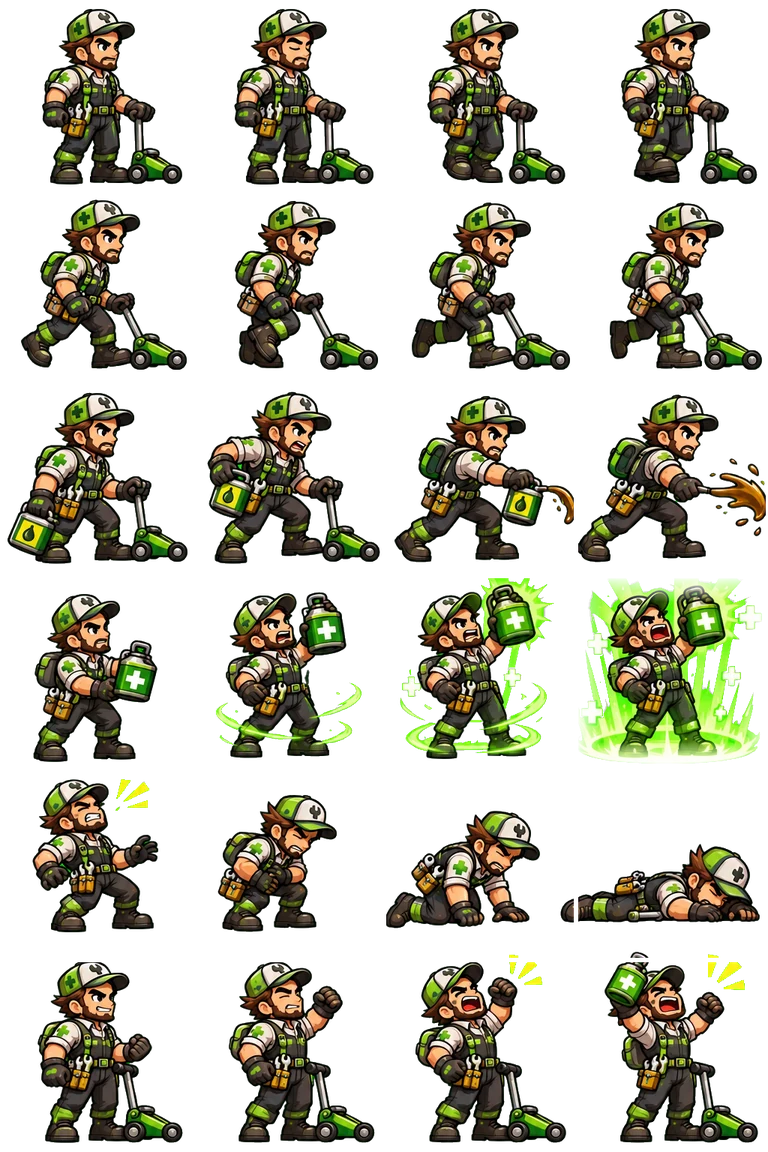
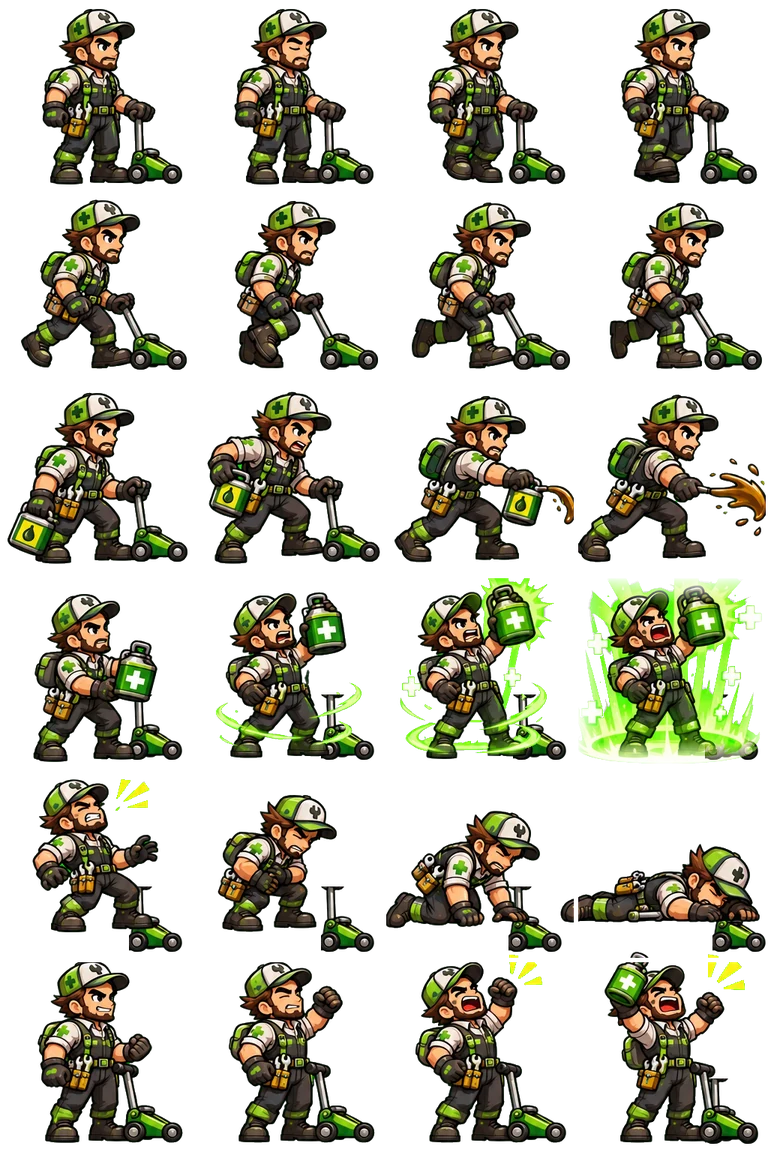
v16-9: Leo Lift keeps his trolley in skill/hurt/KO frames
Claude-Session: https://claude.ai/code/session_01CndPraoc77JDh2NhfP6Kky

diff --git a/sw.js b/sw.js
@@ -1,5 +1,5 @@
 // Torque Empire service worker – the game works offline after the first start and loads fast.
-const V='te-v16-8';
+const V='te-v16-9';
 const FILES=["./battle.js", "./icons/icon-192.png", "./icons/icon-512.png", "./icons/icon-maskable-512.png", "./img/b_arm.webp", "./img/b_arrivals.webp", "./img/b_arrivals0.webp", "./img/b_collection.webp", "./img/b_office.webp", "./img/b_office0.webp", "./img/b_security.webp", "./img/b_security2.webp", "./img/b_security3.webp", "./img/b_security4.webp", "./img/b_yard.webp", "./img/b_ysign.webp", "./img/dq.webp", "./img/fr0.webp", "./img/fr1.webp", "./img/fr2.webp", "./img/fr3.webp", "./img/fr4.webp", "./img/fr5.webp", "./img/fusion.webp", "./img/g_elec2.webp", "./img/g_elec3.webp", "./img/g_elec4.webp", "./img/g_engine2.webp", "./img/g_engine3.webp", "./img/g_engine4.webp", "./img/g_inspect2.webp", "./img/g_inspect3.webp", "./img/g_inspect4.webp", "./img/g_paint2.webp", "./img/g_paint3.webp", "./img/g_paint4.webp", "./img/g_tuning2.webp", "./img/g_tuning3.webp", "./img/g_tuning4.webp", "./img/garage.webp", "./img/gticket.webp", "./img/hud.webp", "./img/hero/m0_0.webp", "./img/hero/m0_0s.webp", "./img/hero/m0_1.webp", "./img/hero/m0_1s.webp", "./img/hero/m0_2.webp", "./img/hero/m0_2s.webp", "./img/hero/m0_3.webp", "./img/hero/m0_3s.webp", "./img/hero/m0_4.webp", "./img/hero/m0_4s.webp", "./img/hero/m0_5.webp", "./img/hero/m0_5s.webp", "./img/hero/m0_6.webp", "./img/hero/m0_6s.webp", "./img/hero/m0_7.webp", "./img/hero/m0_7s.webp", "./img/hero/m0_8.webp", "./img/hero/m0_8s.webp", "./img/hero/m0_9.webp", "./img/hero/m0_9s.webp", "./img/hero/sp_m0_0.webp", "./img/hero/sp_m0_1.webp", "./img/hero/sp_m0_2.webp", "./img/hero/sp_m0_3.webp", "./img/hero/sp_m0_4.webp", "./img/hero/sp_m0_5.webp", "./img/hero/sp_m0_6.webp", "./img/hero/sp_m0_7.webp", "./img/hero/sp_m0_8.webp", "./img/hero/sp_m0_9.webp", "./img/hero/fx_paintboom.webp", "./img/hero/fx_paintboom5.webp", "./img/hero/m1_0.webp", "./img/hero/m1_0s.webp", "./img/hero/m1_1.webp", "./img/hero/m1_1s.webp", "./img/hero/m1_2.webp", "./img/hero/m1_2s.webp", "./img/hero/m1_3.webp", "./img/hero/m1_3s.webp", "./img/hero/m1_4.webp", "./img/hero/m1_4s.webp", "./img/hero/m1_5.webp", "./img/hero/m1_5s.webp", "./img/hero/m1_6.webp", "./img/hero/m1_6s.webp", "./img/hero/m1_7.webp", "./img/hero/m1_7s.webp", "./img/hero/m1_8.webp", "./img/hero/m1_8s.webp", "./img/hero/sp_m1_0.webp", "./img/hero/sp_m1_1.webp", "./img/hero/sp_m1_2.webp", "./img/hero/sp_m1_3.webp", "./img/hero/sp_m1_4.webp", "./img/hero/sp_m1_5.webp", "./img/hero/sp_m1_6.webp", "./img/hero/sp_m1_7.webp", "./img/hero/sp_m1_8.webp", "./img/hero/fx_acidboom.webp", "./img/hero/fx_purpleboom.webp", "./img/idle.webp", "./img/loading.webp", "./img/mech.webp", "./img/p_parts0.webp", "./img/p_parts2.webp", "./img/p_parts3.webp", "./img/p_parts4.webp", "./img/x_wash1.webp", "./img/x_wash2.webp", "./img/x_wash3.webp", "./img/x_wash4.webp", "./img/x_gas1.webp", "./img/x_gas2.webp", "./img/x_gas3.webp", "./img/x_gas4.webp", "./img/x_factory1.webp", "./img/x_factory2.webp", "./img/x_factory3.webp", "./img/x_factory4.webp", "./img/s_elec.webp", "./img/s_engine.webp", "./img/s_inspect.webp", "./img/s_paint.webp", "./img/s_tuning.webp", "./img/summon.webp", "./img/team.webp", "./img/ticket.webp", "./img/ui/forge.webp", "./img/ui/ground.webp", "./img/ui/ic_battle.webp", "./img/ui/ic_dq.webp", "./img/ui/ic_idle.webp", "./img/ui/ic_team.webp", "./img/ui/ic_ticket.webp", "./img/ui/ic_vip.webp", "./img/ui/it_boots.webp", "./img/ui/it_chip.webp", "./img/ui/it_glove.webp", "./img/ui/it_helm.webp", "./img/ui/it_tool.webp", "./img/ui/it_vest.webp", "./img/ui/node_gold.webp", "./img/ui/node_gray.webp", "./img/ui/pr_barrels.webp", "./img/ui/pr_barrels2.webp", "./img/ui/pr_barrierL.webp", "./img/ui/pr_cars.webp", "./img/ui/pr_crane.webp", "./img/ui/pr_fence.webp", "./img/ui/pr_puddle.webp", "./img/ui/pr_redcar.webp", "./img/ui/pr_shed.webp", "./img/ui/pr_sign.webp", "./img/ui/pr_tire1.webp", "./img/ui/pr_tires.webp", "./img/ui/t_gear.webp", "./img/ui/t_gsum.webp", "./img/ui/t_hist.webp", "./img/ui/t_logo.webp", "./img/ui/t_rates.webp", "./img/vip.webp", "./index.html", "./manifest.webmanifest", "./privacy.html", "./secure.js", "./cloud.js", "./img/fx/circle_03.webp", "./img/fx/circle_05.webp", "./img/fx/dirt_02.webp", "./img/fx/fire_01.webp", "./img/fx/flame_04.webp", "./img/fx/flare_01.webp", "./img/fx/light_02.webp", "./img/fx/magic_02.webp", "./img/fx/muzzle_02.webp", "./img/fx/scorch_02.webp", "./img/fx/slash_02.webp", "./img/fx/smoke_04.webp", "./img/fx/spark_02.webp", "./img/fx/spark_05.webp", "./img/fx/star_04.webp", "./img/fx/star_07.webp", "./img/fx/trace_01.webp", "./img/fx/twirl_02.webp"];
 self.addEventListener('install',e=>{e.waitUntil(caches.open(V).then(c=>c.addAll(FILES)).then(()=>self.skipWaiting()));});
 self.addEventListener('activate',e=>{e.waitUntil(caches.keys().then(k=>Promise.all(k.filter(x=>x!==V).map(x=>caches.delete(x)))).then(()=>self.clients.claim()));});

diff --git a/NEXT_STEPS.md b/NEXT_STEPS.md
@@ -8,7 +8,8 @@
 - **Joc online (v15)**: https://mariussima0077-cell.github.io/
   - Repository GitHub: `mariussima0077-cell/mariussima0077-cell.github.io` (public, GitHub Pages din `main` / root, `.nojekyll`).
   - Claude are acces de scriere la repository și poate porni jocul live (browser automat) ca să verifice și să facă capturi.
-  - Versiunea curentă în `sw.js`: `const V='te-v16-8'`.
+  - Versiunea curentă în `sw.js`: `const V='te-v16-9'`.
+  - **v16-9 (14 nov)**: Leo Lift – căruciorul (luat din cadrul de repaus) pus lângă el în cadrele de skill, lovit, KO și ultima victorie, unde lipsea (aprobat de Marius).
   - **v16-8 (14 nov)**: cei 9 Uncommon (Gina Gear, Bruno Piston, Marco Torque, Leo Lift, Hank Hammer, Vic Spray, Ivy Volt, Nora Check, Axel Grind = `m1_0..m1_8`) au avatare + animații. Decupaj NOU pentru planșe cu mult verde (`atlas2.py`: scoate doar verdele pur de fond, legat în zone mari, păstrează verdele de pe haine/efecte). Rezolvări: Ivy – cadrul 4 din skill avea un fundal verde pătrat cu monștri → sărit; Leo – strălucirea de la vindecare era tăiată pătrat → margini estompate; Hank – explozia acidă tăiată din poza lui și oglindită (era lipită de el) → apare la monstru; Vic – aceeași explozie colorată mov. Culori proprii pt. efecte (`col` în `SPRD`): laser/fulger/jet verde la Nora, Ivy, Hank, mov la Vic, roșu la Pete/Kim.
   - **v16-7 (14 nov)**: Tom Wrench – cadrul de cădere din skill (rândul 4, cadrul 3) are un rucsac pe care nu-l poartă în rest → în aer rămâne pe cadrul de săritură, apoi aterizarea. Regula lui Marius: când o poză are o problemă, Claude caută singur o soluție (decupează, mută, prelungește) și îi spune ce a făcut.
   - **v16-6 (14 nov)**: primii 10 mecanici Common au avatare + ANIMAȚII în bătălie din sprite sheet-urile lui Marius (Rusty Joe, Benny Bolt, Tom Wrench, Ollie Oil, Mia Brush, Dan Dent, Sam Spark, Pete Gauge, Kim Tablet, Ricky Rev = `m0_0..m0_9`). Atlas `img/hero/sp_m0_X.webp` (4×6 cadre de 192 px, fond scos), originalele în `img/sheets/`. Cod: `SPRD` / `sprFrame` / `drawSprHero` în `battle.js` (a = punctul picioarelor, m = de unde iese efectul atacului, ca laserul/fulgerul/vopseaua să continue până la monstru). Explozia de vopsea din poză (Mia, Dan) apare la bomba-skill. Pentru eroi noi: adaugă-i în `SPRD` + `HPIC` (index.html) + `sw.js`.
@@ -80,7 +81,7 @@
 ## ⚠ REGULI
 - **Nu mai resetăm salvarea** la update-uri (cheia rămâne `torqueEmpire_v15`).
 - Orice schimbare se verifică întâi cu `PLAY_RULES.md`.
-- La fiecare update de joc: Claude schimbă `const V` din `sw.js` (următorul: `te-v16-9`), testează live și urcă pe GitHub. Pentru schimbări de joc **nu** trebuie pachet nou în Play.
+- La fiecare update de joc: Claude schimbă `const V` din `sw.js` (următorul: `te-v16-10`), testează live și urcă pe GitHub. Pentru schimbări de joc **nu** trebuie pachet nou în Play.
 - Pachet nou în Play (de ex. cu plăți) = semnat cu **aceeași cheie** din Drive și același Package ID `com.torqueempire.game`.
 - Secretele (cheie dev, ADMIN_KEY, parole) stau DOAR în Google Drive, niciodată pe GitHub.
 - Imaginile le alege mereu Marius; înainte de mecanici noi, Claude arată diferența înainte/după.
